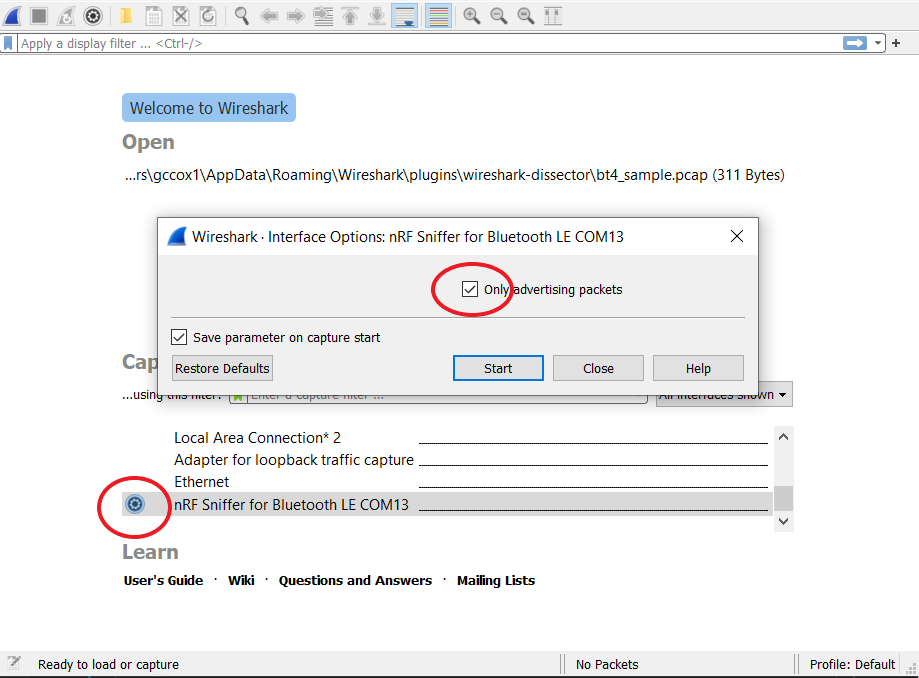
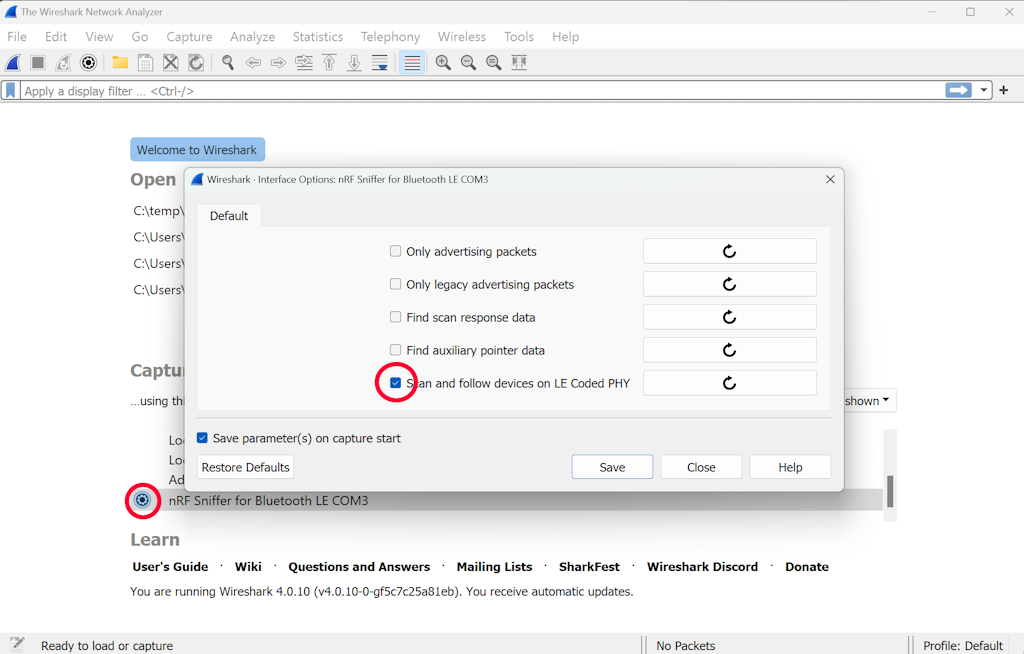
Updated Instructions and fixed an "out of range" case
- Updated Instructions for Bluetooth to include newer BT5 LE Coded PHY support.

- Added enhanced frameTypeOffset range checking (to reduce "out of range" errors)

- Enhanced debug error messages to show more info.

diff --git a/README.md b/README.md
@@ -26,12 +26,15 @@ It currently supports Wi-Fi Beacon, Wi-Fi NAN and Bluetooth 4.  Bluetooth 5 will
 
 3. Bluetooth Sniffing
     1.  Although one may be able to get an integrated hardware working, you may have better luck with some external bluetooth device that has already been proven for this purpose.
-    2. The [Nordic nRF52840 dongle](https://www.nordicsemi.com/Software-and-tools/Development-Kits/nRF52840-Dongle) was used to validate the dissector (BT4 only so far, we're not yet sure on its support of BT5 Long Range sniffing).  To get the dongle working, you must do the following:
+    2. The [Nordic nRF52840 dongle](https://www.nordicsemi.com/Software-and-tools/Development-Kits/nRF52840-Dongle) was used to validate the dissector with both BT4 (Legacy) and BT5 (LE Coded Phy) working.  To get the dongle working, you must do the following:
 
         1. Install [nRF Connect](https://www.nordicsemi.com/Software-and-tools/Development-Tools/nRF-Connect-for-desktop).
         2. Within nRF Connect, install the "Programmer" app.
         3. Download/Install nRF sniffer according to the Nordic [instructions](https://infocenter.nordicsemi.com/index.jsp?topic=%2Fug_sniffer_ble%2FUG%2Fsniffer_ble%2Fintro.html).
-    3. Once the BT sniffer is setup in Wireshark, be sure to start the sniffing process using the "config gear" icon and select "Advertisement Frames only" in the startup dialog (this will limit the noise).
+    3. Once the BT sniffer is setup in Wireshark, be sure to start the sniffing process using the "config gear" icon and select one of the following:
+		- For BT5 (LE Coded Phy): select "Scan and follow devices on LE Coded PHY".
         ![Wireshark BT Start](img/bt_start.png)
+		- For BT4 (Legacy): select "Only legacy advertising packets" in the startup dialog (this will limit the noise).
+        ![Wireshark BT Start](img/bt_start_legacy.png)
     4. Start Sniffing!
     ![Wireshark BT Screenshot](img/screenshot_bt.png)
